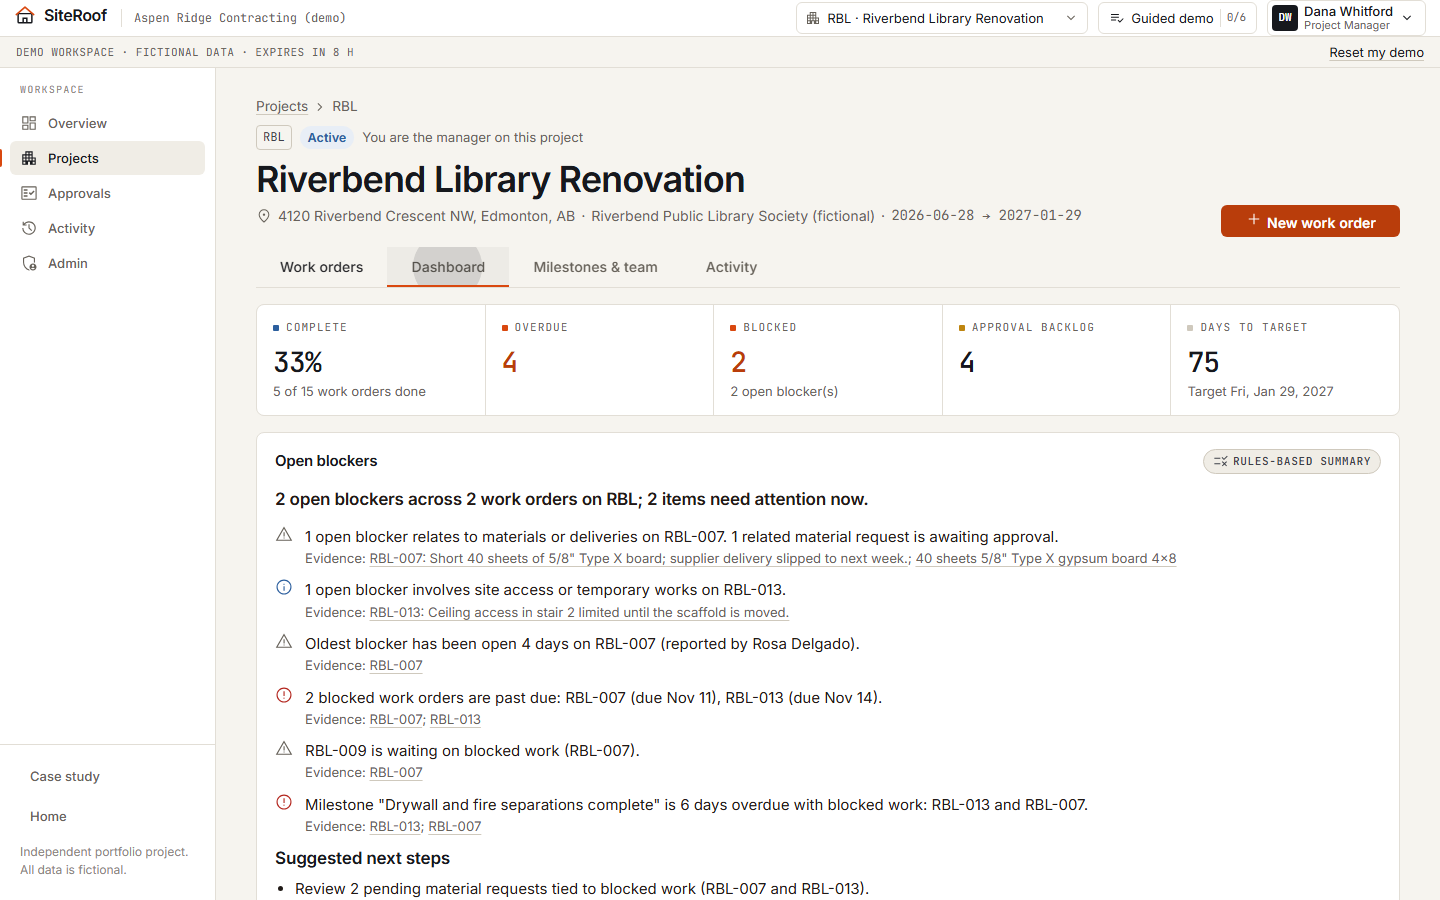
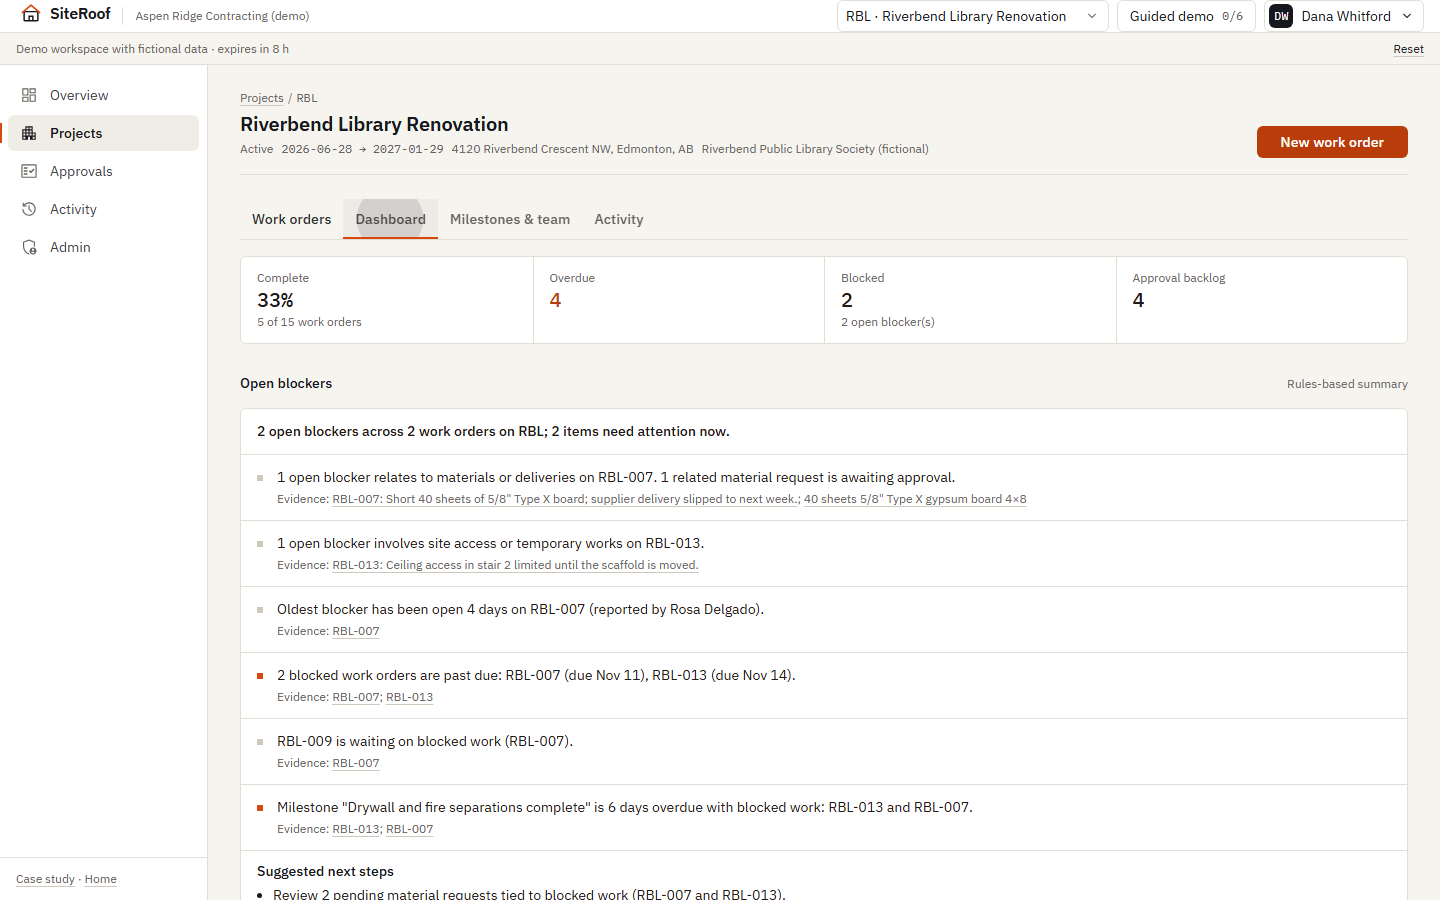
docs: polish pass screenshots, design system notes and verification results

diff --git a/docs/STATUS.md b/docs/STATUS.md
@@ -1,6 +1,6 @@
 # SiteRoof — Status
 
-_Last updated: 2026-11-15. Phases 1, 2 and 3 plus the visual redesign are complete locally. **Not deployed.**_
+_Last updated: 2026-11-15. Phases 1–3, the visual redesign and the app polish pass are complete locally. **Not deployed.**_
 
 ## Done
 
@@ -61,21 +61,40 @@ _Last updated: 2026-11-15. Phases 1, 2 and 3 plus the visual redesign are comple
   option text; fixed with an explicit `aria-label` (no test assertion was relaxed).
 - Screenshots in `docs/screenshots` and `web/public/screens` recaptured from the redesigned app.
 
-## Verification (run on 2026-11-15 after the redesign, Windows 11, Docker Desktop)
+**App polish pass (2026-11-15)**
+- Audited every /app screen, dialog and state at 375, 768 and 1440 px (51 captures, untracked in `.local/audit/`),
+  listed 34 issues and fixed each; resolutions are recorded next to the list.
+- Type: IBM Plex Sans + IBM Plex Mono (self-hosted). App scale of three sizes (20/14/12 px), weights 400/500 with
+  600 for page titles only; spacing scale 4–32 px; one 6px radius.
+- Removed dashboard tells: greeting, six KPI tiles (now one 4-number strip), pills outside status columns, heading
+  icons, card grids and filler sentences. Overview, projects, approvals, milestones, team and admin are tables.
+- Phones and tablets: drawer navigation and one compact menu, tables stack into list rows, one board column at a
+  time with a status picker, 44px touch targets, full-screen sheet dialogs, sticky submit for logging progress,
+  crew sees "Assigned to me" first.
+- Bugs found and fixed during the pass: the guided-demo panel opened over the content on phones; tab paging arrows
+  overlapped tabs on phones; the tablet approvals table clipped its action column; desktop dialogs scrolled
+  sideways; the compact menu header ran name and role together.
+- New Playwright phone checks (375 px): no horizontal overflow on every /app route (plus milestones/team and list
+  view), drawer and compact menu, one-column board, crew logs progress and a blocker, dialogs as full-screen sheets.
+
+## Verification (run on 2026-11-15 after the polish pass, Windows 11, Docker Desktop)
 
 | Command | Result |
 | --- | --- |
-| `dotnet build SiteRoof.slnx -c Release -warnaserror` | Succeeded, 0 warnings, 0 errors |
-| `dotnet test SiteRoof.slnx` | **60 passed**, 0 failed (xUnit; SQL Server 2022 via Testcontainers) |
 | `cd web; npm run lint` | All files pass linting |
 | `cd web; npm test` | **14 passed** (3 files, Vitest) |
-| `cd web; npm run build` | Succeeded, no warnings; initial bundle 323.74 kB raw / 86.46 kB estimated transfer |
-| `cd tests/e2e; npx playwright test --project=chromium` (API on :5080 serving the production build) | **10 passed** |
-| `docker compose --profile full up -d --build` then `E2E_BASE_URL=http://127.0.0.1:8080 npx playwright test --project=chromium` (with `DEMO_PROVISION_PERMITS=500`) | **10 passed** against the rebuilt production container |
-| `docker run rhysd/actionlint:1.7.12` on `.github/workflows` | No findings |
-| `docker run zricethezav/gitleaks:v8.30.1 git /repo` | No leaks found |
+| `cd web; npm run build` | Succeeded, no warnings; initial bundle 340.36 kB raw / 88.41 kB estimated transfer |
+| `dotnet test SiteRoof.slnx` | **60 passed**, 0 failed (xUnit; SQL Server 2022 via Testcontainers) |
+| `cd tests/e2e; npx playwright test --project=chromium` (API on :5080 serving the production build) | **15 passed** (10 desktop + 5 phone-viewport) |
+| `docker compose --profile full up -d --build` (default demo limit, 6 per client per 15 min) | Built and started; `/health/ready` 200; demo start, `/api/overview` and `/app/overview` return 200 |
+| `node scripts/audit.mjs .local/audit/after http://127.0.0.1:8080` | 51 after-screenshots captured from the production container |
 
-The `actionlint` and `gitleaks` rows above are from the pre-redesign run; the redesign did not touch the workflow.
+The full Playwright suite was not run against the default-limit container: it starts about 15 demo workspaces and
+the production limit allows 6 per client per 15 minutes (see Known issues). It passed against the production build
+served by the API. The previous container run (raised limit) passed 10/10 before the polish pass.
+
+Earlier checks still valid (no backend or workflow changes since): `dotnet build -c Release -warnaserror` 0 warnings,
+actionlint no findings, gitleaks no leaks.
 
 Local latency (pre-redesign; backend unchanged since), measured with `node scripts/measure-latency.mjs http://127.0.0.1:8080 30` against the
 production container and SQL Server 2022 in Docker on the development machine (not a hosted environment):

diff --git a/docs/ARCHITECTURE.md b/docs/ARCHITECTURE.md
@@ -129,11 +129,21 @@ styles and shared primitives.
 | Surfaces | Drawing-paper background `#F6F4EF`, white surfaces, subtle wells `#F0EDE6`, 1px hairlines `#E2DED6` / `#CFC9BD` |
 | Ink | Text `#16181D`, secondary `#3D4048`, warm-gray tertiary `#67625A` (5.5:1 on the background) |
 | Accent | Construction orange `#D9480F` for non-text marks (focus ring, active nav marker, overdue rules, callouts); `#B93D0B` for filled buttons and accent text (5.6:1 on white, WCAG AA) |
-| Type | Inter (UI and headings, 400/500/600, tight tracking on large headings) and JetBrains Mono (codes, ids, quantities, dates, numbers, sheet labels), both self-hosted |
+| Type | IBM Plex Sans (UI and headings) and IBM Plex Mono (codes, ids, quantities, dates, numbers), both self-hosted. In the app: three sizes per screen (20px title, 14px body, 12px small), weights 400/500 with 600 only for page titles |
 | Motifs | Faint 24px drawing grid behind heroes, mono "sheet" labels, title-block footer, dimension-line divider; no gradients or heavy shadows |
+| Spacing and shape | Spacing scale 4/8/12/16/24/32 (`--sr-s1`…`--sr-s6`), one 6px radius, 1px hairlines |
 | Motion | 150 ms fades and colour transitions only, disabled under `prefers-reduced-motion` |
 
-Status pills use muted tinted backgrounds with an icon and a text label, so colour is never the only signal.
+Status pills use muted tinted backgrounds with an icon and a text label, so colour is never the only signal,
+and appear only in status columns.
+
+App building blocks live in `web/src/styles/_app.scss` and are reused on every `/app` screen: page head
+(breadcrumb, title, one meta line, actions), section and panel, the `.sr-dt` data table (aligned columns, mono
+numbers right-aligned, whole-row links; below 640px — or 1024px with `.stack-md` — rows become stacked list rows),
+list rows, labelled form fields with inline errors, notices, the `sr-stats` strip and `sr-state` for
+loading/empty/error. Phones and tablets (below 960px) get a drawer for navigation and one compact menu for project,
+persona and demo controls; touch targets are at least 44px; dialogs become full-screen sheets; the work-order board
+shows one status column at a time below 1200px.
 
 ### Chart colours
 

diff --git a/README.md b/README.md
@@ -16,7 +16,13 @@ case study, and a working demo where each visitor gets a private, seeded workspa
 | --- | --- | --- |
 | ![Board](docs/screenshots/project-board.png) | ![Work order](docs/screenshots/work-order.png) | ![Approvals](docs/screenshots/approvals.png) |
 
-Screenshots were captured from the running app by `tests/e2e/specs/screenshots.spec.ts`.
+| On a phone (crew member) | Landing page |
+| --- | --- |
+| ![Phone overview for a crew member](docs/screenshots/mobile-overview.png) | ![Landing page](docs/screenshots/landing.png) |
+
+Screenshots were captured from the running app by `tests/e2e/specs/screenshots.spec.ts`. The app is
+usable at 375px: tables become stacked rows, the board shows one status column at a time, dialogs open as
+full-screen sheets and the crew's progress form has a sticky submit button.
 
 ## What it does
 
@@ -98,4 +104,4 @@ docs                    Spec, status, architecture, database, API, deployment, s
 
 ## License
 
-[MIT](LICENSE). Icons: Material Symbols (Apache 2.0). Fonts: Inter and JetBrains Mono (SIL OFL 1.1).
+[MIT](LICENSE). Icons: Material Symbols (Apache 2.0). Fonts: IBM Plex Sans and IBM Plex Mono (SIL OFL 1.1).
